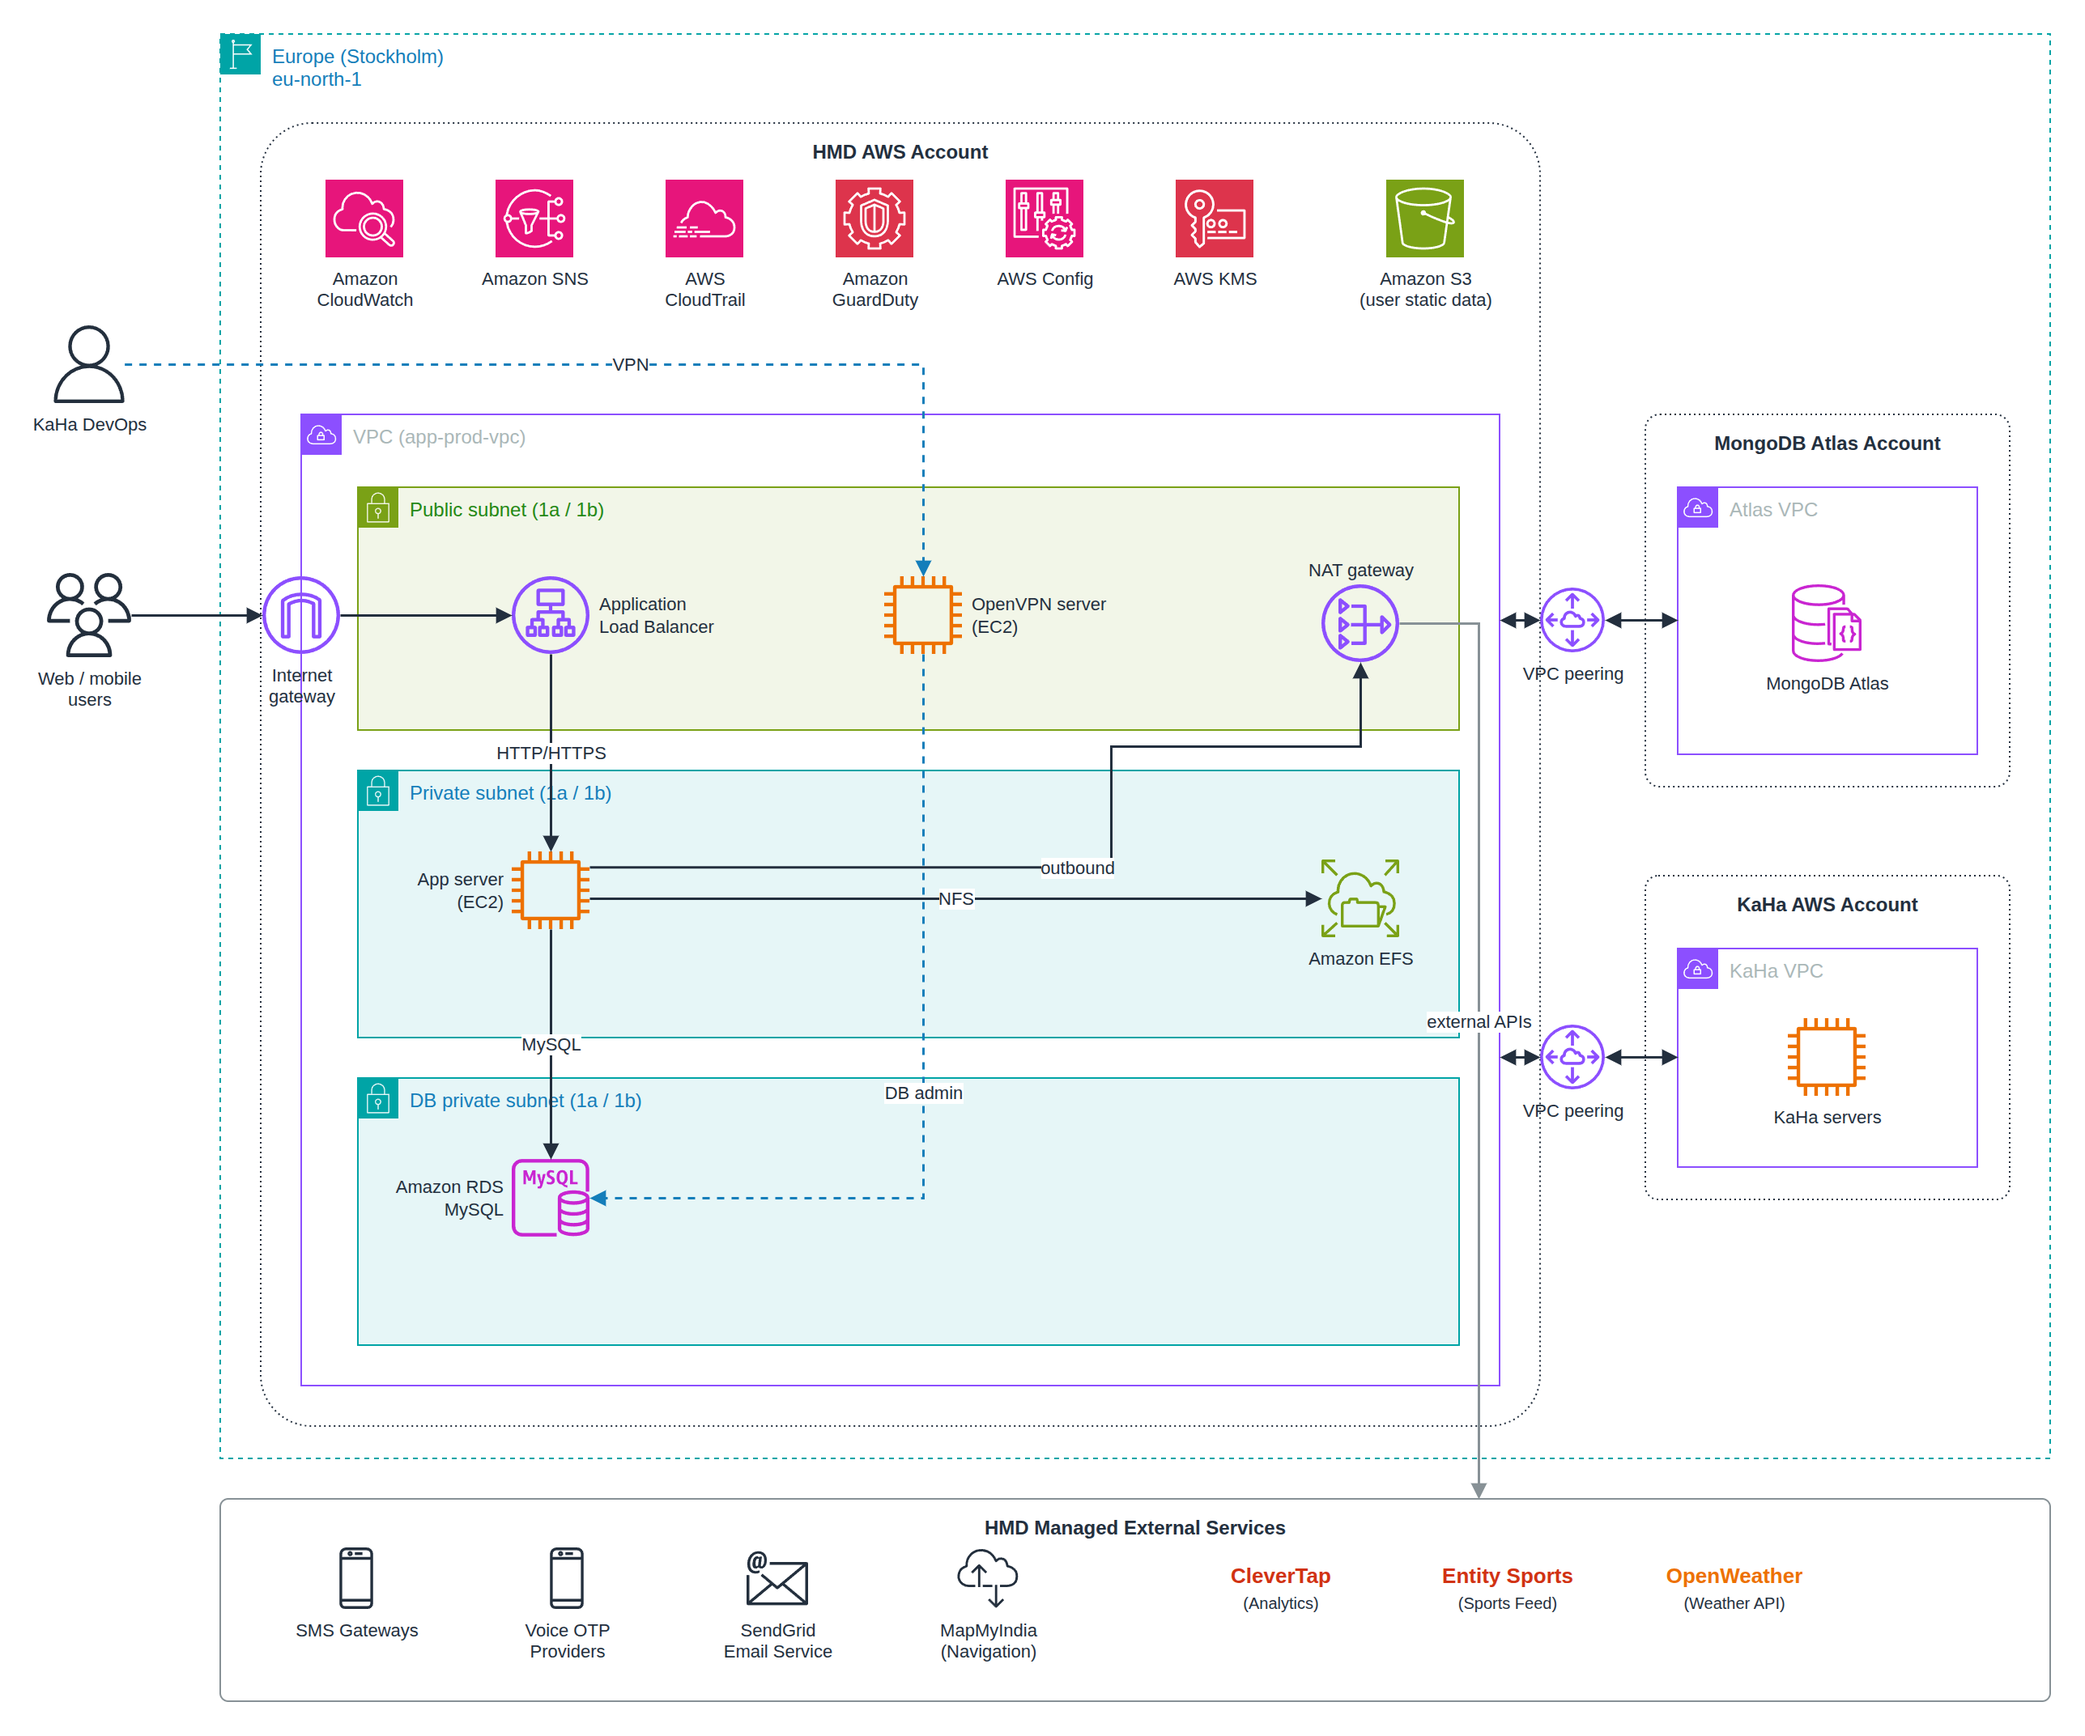
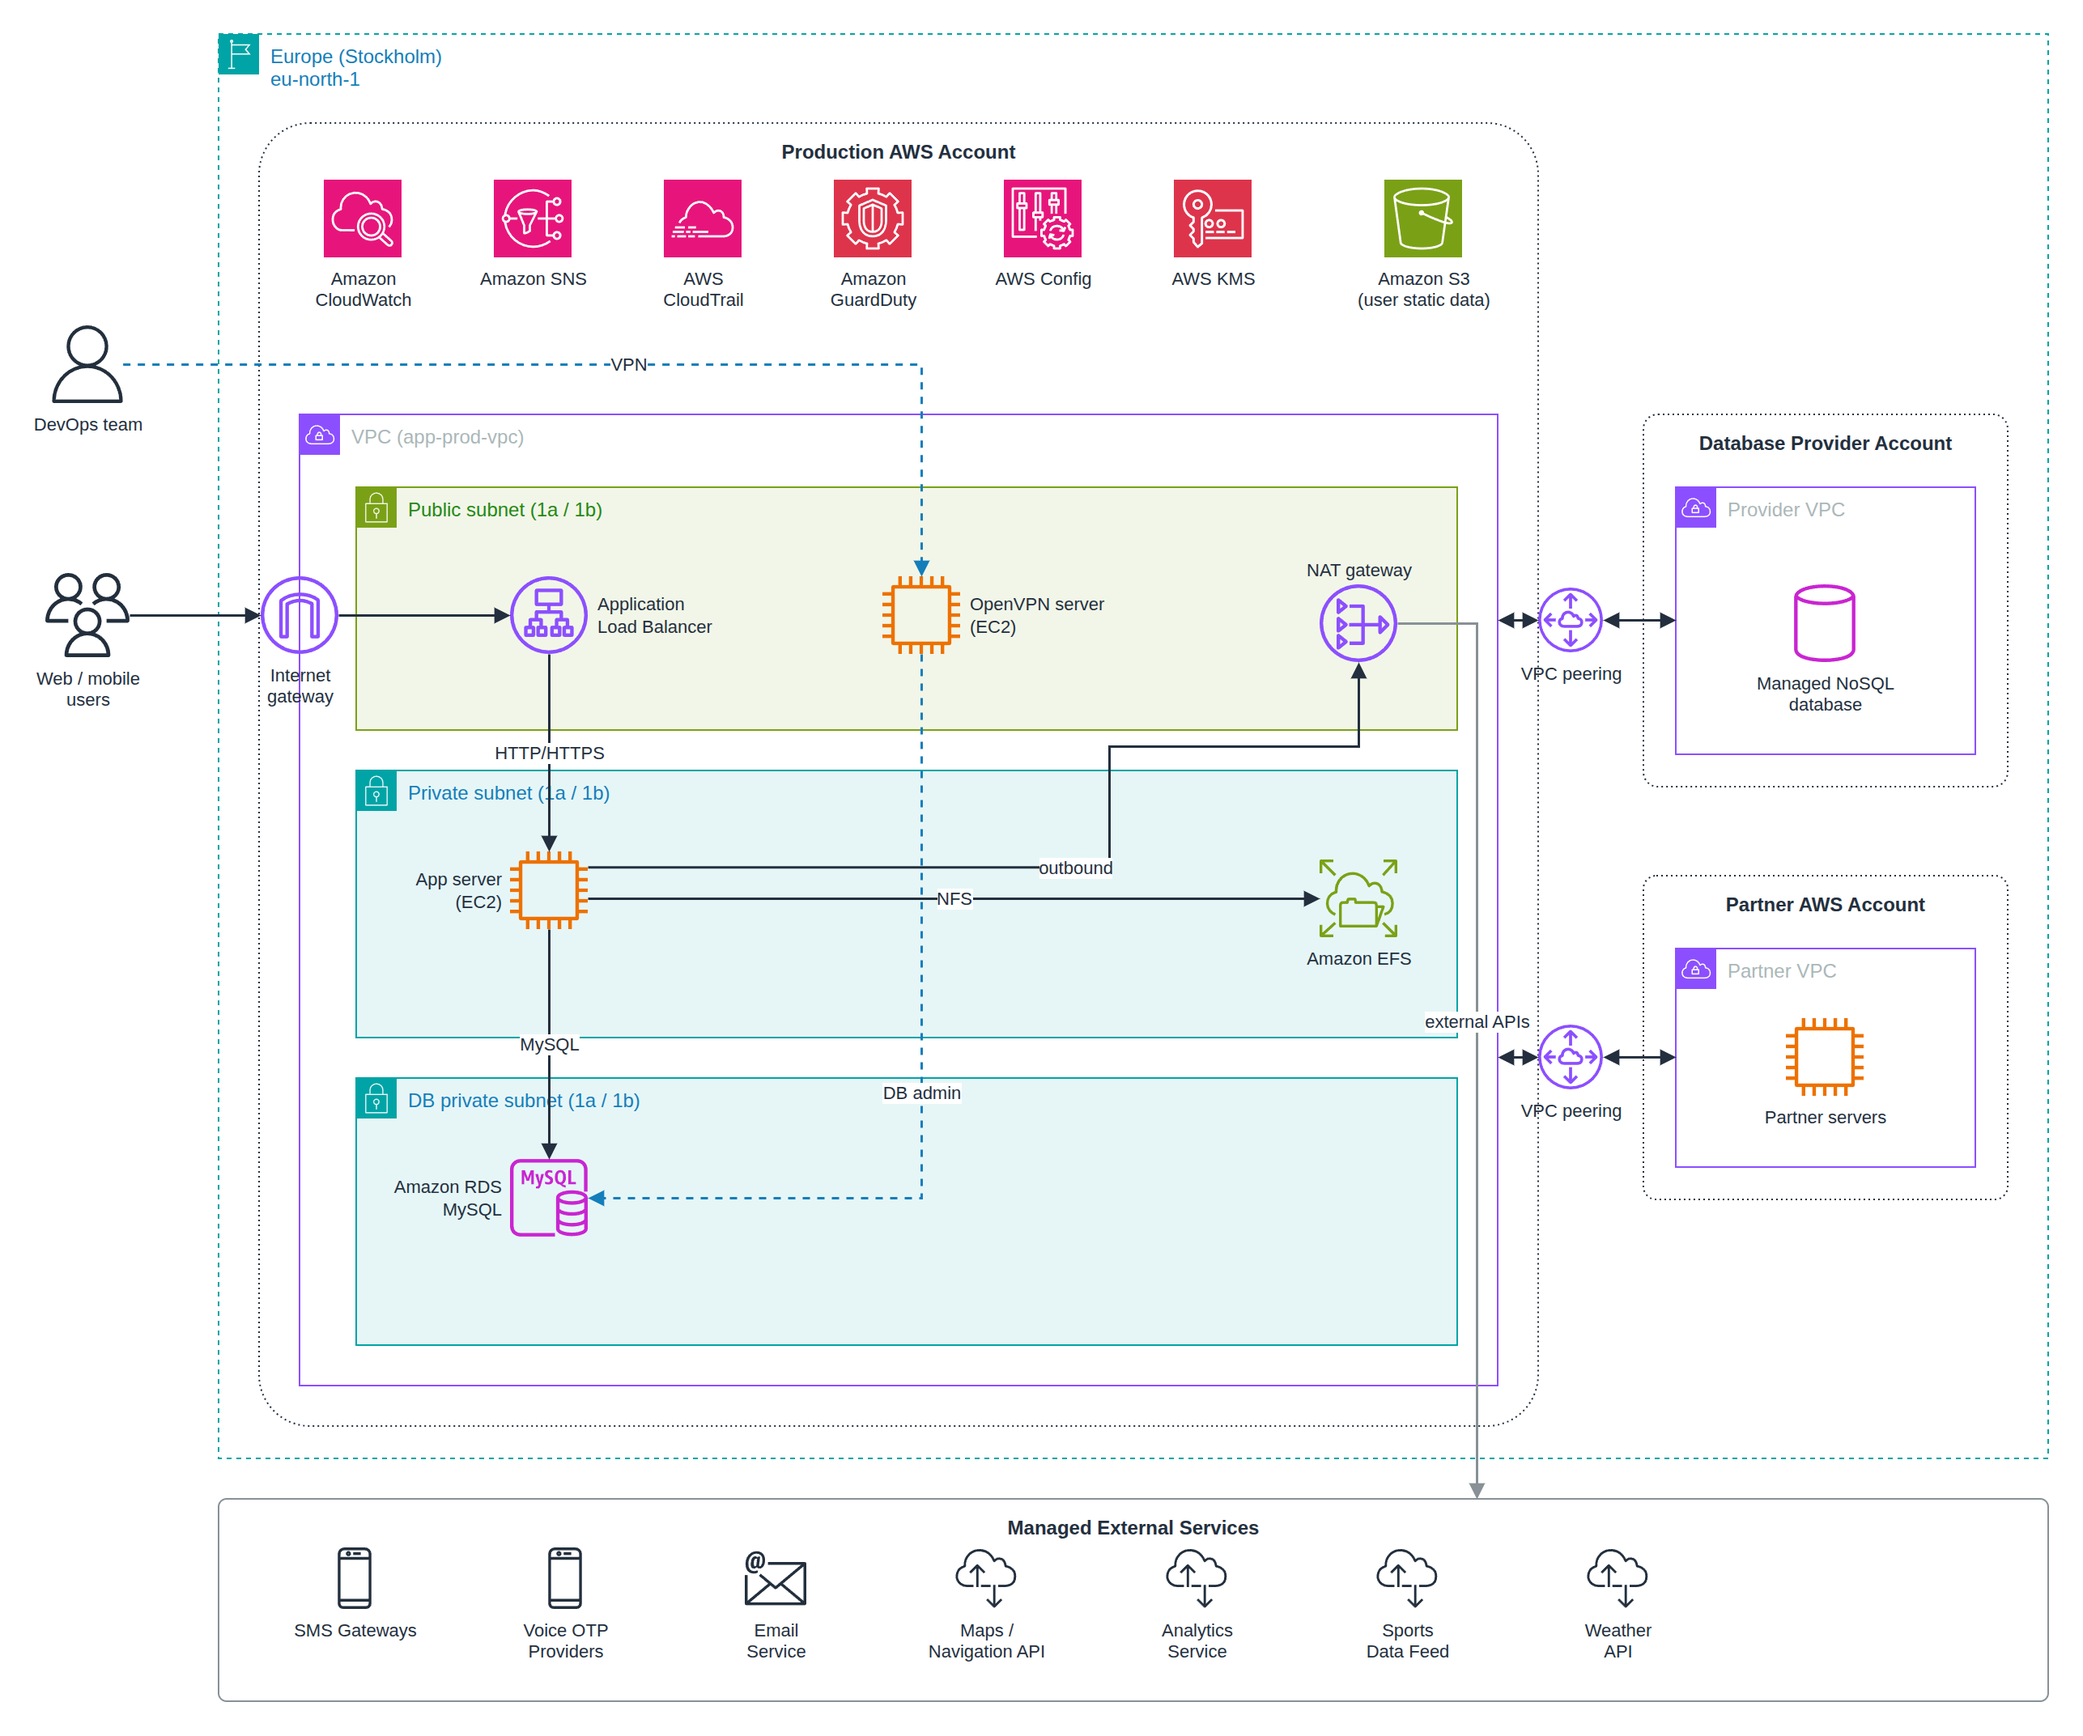
Add files via upload

diff --git a/README.md b/README.md
@@ -1,16 +1,16 @@
-# HMD AWS infrastructure (eu-north-1, Stockholm)
+# AWS infrastructure (eu-north-1, Stockholm)
 
-Record of the production environment in the **HMD AWS account**.
+Record of the production environment in the **production AWS account**.
 The environment was built manually in the AWS console. This repo documents it as
-Terraform code plus a written description. KaHa account resources are not included,
-apart from the HMD side of the VPC peering.
+Terraform code plus a written description. Resources in the partner account are not included,
+apart from this account's side of the VPC peering.
 
-![HMD account architecture](docs/architecture.png)
+![Architecture](docs/architecture.png)
 
 Details: [docs/architecture.md](docs/architecture.md)
 
 > **Documentation only.** These resources already exist. Do not run `terraform apply`
-> against the HMD account: it would try to create a second copy of everything.
+> against the production account: it would try to create a second copy of everything.
 
 IP ranges, resource IDs, account IDs, bucket names and email addresses are not stored
 in this repo. The code reads them from variables, and `terraform.tfvars.example`
@@ -24,7 +24,7 @@ contains placeholders only.
 | `docs/architecture.png` | Architecture diagram (AWS icons) |
 | `docs/architecture.drawio` | Editable draw.io source of the diagram |
 | `vpc.tf` | VPC, 6 subnets, internet gateway, NAT gateway, route tables |
-| `vpc_peering.tf` | HMD side of the peering with the KaHa VPC and the MongoDB Atlas VPC |
+| `vpc_peering.tf` | This account's side of the peering with the partner VPC and the managed database provider VPC |
 | `security_groups.tf` | ALB, app server, EFS, DB and OpenVPN security groups |
 | `kms.tf` | KMS key (symmetric, single region) |
 | `cloudtrail.tf` | Multi-region trail with S3 and CloudWatch Logs delivery |
@@ -37,7 +37,7 @@ contains placeholders only.
 | `monitoring.tf` | SNS alerts topic and CloudWatch alarms |
 | `guardduty.tf` | GuardDuty |
 | `config.tf` | AWS Config |
-| `openvpn.tf` | OpenVPN server used by KaHa DevOps |
+| `openvpn.tf` | OpenVPN server used by the DevOps team |
 | `variables.tf`, `terraform.tfvars.example`, `outputs.tf` | Inputs and outputs of the code |
 
 ## Note on the code

diff --git a/docs/architecture.md b/docs/architecture.md
@@ -1,4 +1,4 @@
-# Production architecture: HMD account
+# Production architecture
 
 Region: Europe (Stockholm), `eu-north-1`.
 All resources below were created manually in the AWS console.
@@ -12,7 +12,7 @@ and the EC2 role is `app-prod-ec2-role`.
 
 ## Architecture diagram
 
-![HMD account architecture](architecture.png)
+![Architecture](architecture.png)
 
 Editable source: [`architecture.drawio`](architecture.drawio). Open it in [draw.io](https://app.diagrams.net) and export it again as `architecture.png` after changes.
 
